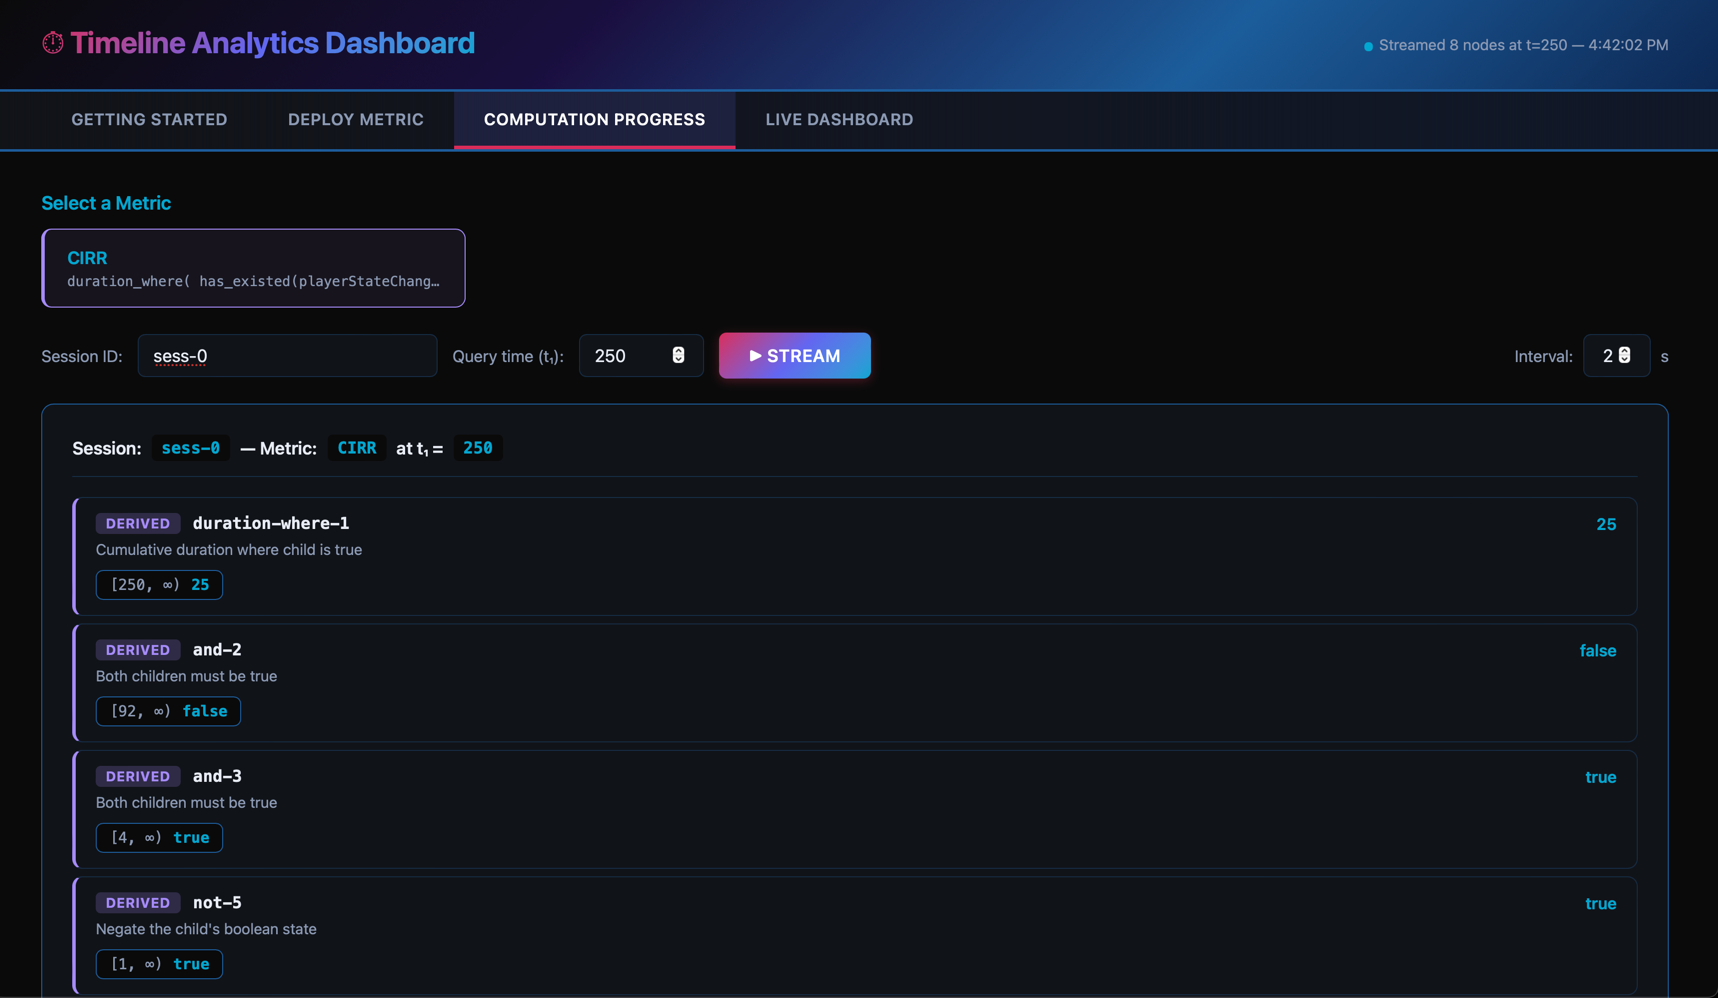
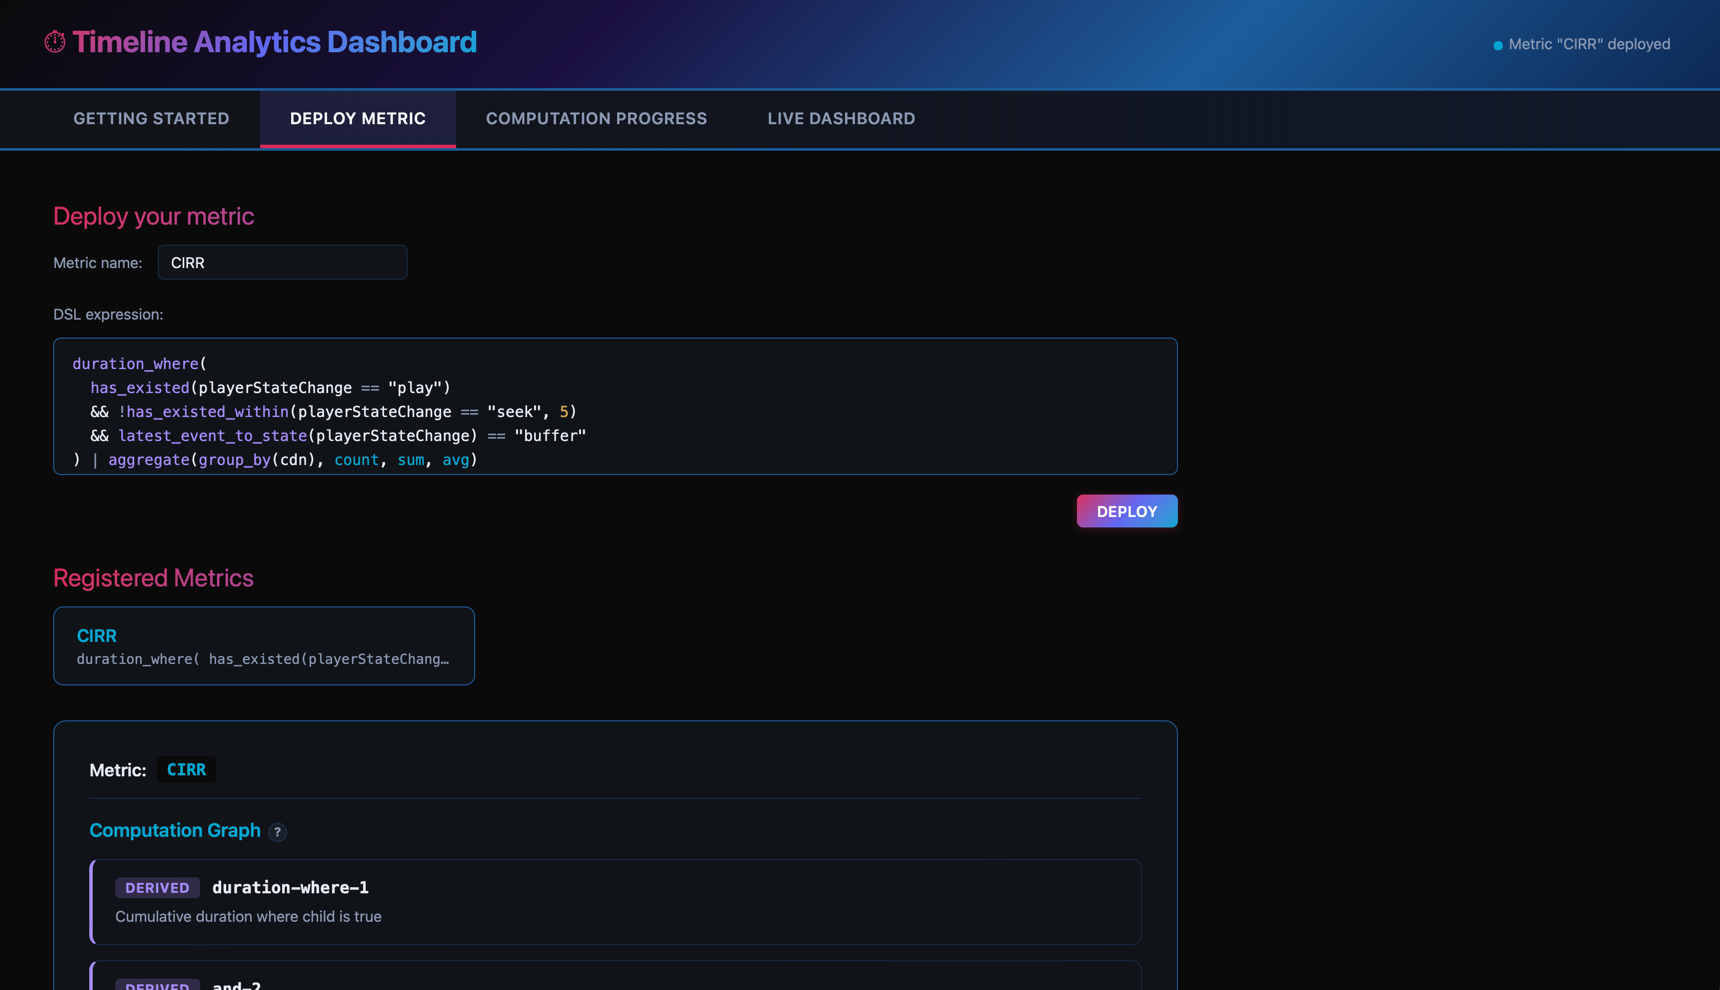
change UI

diff --git a/services/dashboard/src/dashboard.html b/services/dashboard/src/dashboard.html
@@ -59,18 +59,18 @@
     }
     .tab:hover { color: var(--cyan); }
     .tab.active { color: #fff; border-bottom-color: var(--rose); background: rgba(99,102,241,0.15); }
-    .panel { display: none; padding: 32px 40px; }
+    .panel { display: none; padding: 40px 48px; }
     .panel.active { display: block; }
     .guide { max-width: 900px; }
-    .guide h2 { font-size: 20px; margin-bottom: 8px; color: var(--cyan); }
-    .guide .lead { color: var(--text-muted); font-size: 14px; margin-bottom: 24px; line-height: 1.6; }
+    .guide h2 { font-size: 20px; margin-bottom: 12px; color: var(--cyan); }
+    .guide .lead { color: var(--text-muted); font-size: 14px; margin-bottom: 28px; line-height: 1.7; }
     .dsl-block {
       background: var(--surface); border: 1px solid var(--accent-dim); border-radius: 8px;
       padding: 16px 20px; font-family: 'SF Mono', 'Fira Code', monospace; font-size: 13px;
-      line-height: 1.7; color: var(--cyan); margin-bottom: 24px; white-space: pre; overflow-x: auto;
+      line-height: 1.7; color: var(--text); margin-bottom: 32px; white-space: pre; overflow-x: auto;
       border-left: 3px solid var(--siri);
     }
-    .step { display: flex; gap: 16px; margin-bottom: 20px; }
+    .step { display: flex; gap: 16px; margin-bottom: 28px; }
     .step-num {
       flex-shrink: 0; width: 28px; height: 28px;
       background: var(--siri-gradient);
@@ -86,32 +86,32 @@
       font-size: 12.5px; color: var(--green); margin-top: 8px; white-space: pre; overflow-x: auto;
     }
     .controls {
-      display: flex; gap: 12px; align-items: center; flex-wrap: wrap; margin-bottom: 20px;
+      display: flex; gap: 14px; align-items: center; flex-wrap: wrap; margin-bottom: 28px;
     }
-    .controls label { font-size: 13px; color: var(--text-muted); }
+    .controls label { font-size: 12px; color: var(--text-muted); }
     .controls input[type="text"], .controls input[type="number"] {
       background: var(--surface); border: 1px solid var(--border); color: var(--text);
-      padding: 8px 12px; border-radius: 6px; font-size: 14px; outline: none;
+      padding: 6px 10px; border-radius: 5px; font-size: 12px; outline: none;
     }
     .controls input:focus { border-color: var(--cyan); box-shadow: 0 0 0 2px rgba(2,167,209,0.2); }
     .controls button, .btn {
       background: var(--siri-gradient);
       color: #fff; border: none;
-      padding: 10px 24px; border-radius: 6px; font-size: 14px; cursor: pointer;
+      padding: 6px 16px; border-radius: 5px; font-size: 12px; cursor: pointer;
       font-weight: 600; text-transform: uppercase; letter-spacing: 0.3px;
-      transition: opacity .15s; box-shadow: 0 2px 8px rgba(218,44,90,0.3);
+      transition: opacity .15s; box-shadow: 0 1px 6px rgba(218,44,90,0.25);
     }
-    .controls button:hover, .btn:hover { opacity: 0.9; box-shadow: 0 4px 16px rgba(218,44,90,0.4); }
+    .controls button:hover, .btn:hover { opacity: 0.9; box-shadow: 0 2px 10px rgba(218,44,90,0.35); }
     .poll-toggle { margin-left: auto; display: flex; align-items: center; gap: 8px; }
     .poll-toggle label { cursor: pointer; }
     .interval {
       background: var(--surface); border: 1px solid var(--border); color: var(--text);
-      padding: 6px 8px; border-radius: 6px; font-size: 13px; width: 54px; text-align: center; outline: none;
+      padding: 5px 6px; border-radius: 5px; font-size: 12px; width: 48px; text-align: center; outline: none;
     }
-    .presets { display: flex; gap: 8px; margin-bottom: 20px; flex-wrap: wrap; }
+    .presets { display: flex; gap: 10px; margin-bottom: 28px; flex-wrap: wrap; }
     .preset-btn {
       background: var(--surface); border: 1px solid var(--accent-dim); color: var(--text-muted);
-      padding: 8px 16px; border-radius: 6px; font-size: 12px; cursor: pointer;
+      padding: 5px 12px; border-radius: 5px; font-size: 11px; cursor: pointer;
       font-weight: 500; transition: all .15s;
     }
     .preset-btn:hover { color: var(--cyan); border-color: var(--cyan); }
@@ -120,22 +120,22 @@
     .empty-state p { margin-top: 8px; font-size: 14px; }
     .metrics-grid {
       display: grid; grid-template-columns: repeat(auto-fill, minmax(180px, 1fr));
-      gap: 16px; margin-bottom: 24px;
+      gap: 20px; margin-bottom: 28px;
     }
     .metric-card {
-      background: var(--surface); border: 1px solid var(--accent-dim); border-radius: 10px; padding: 20px;
+      background: var(--surface); border: 1px solid var(--accent-dim); border-radius: 8px; padding: 16px;
     }
     .metric-card .label {
-      font-size: 11px; text-transform: uppercase; letter-spacing: 0.8px;
-      color: var(--text-muted); margin-bottom: 8px;
+      font-size: 10px; text-transform: uppercase; letter-spacing: 0.8px;
+      color: var(--text-muted); margin-bottom: 6px;
     }
-    .metric-card .value { font-size: 28px; font-weight: 700; font-variant-numeric: tabular-nums; }
+    .metric-card .value { font-size: 22px; font-weight: 700; font-variant-numeric: tabular-nums; }
     .metric-card .value.count { color: var(--cyan); }
     .metric-card .value.sum   { color: var(--rose); }
     .metric-card .value.avg   { color: var(--siri); }
     .result-section {
       background: var(--surface); border: 1px solid var(--accent-dim);
-      border-radius: 10px; padding: 24px; margin-bottom: 20px;
+      border-radius: 10px; padding: 28px; margin-bottom: 28px;
     }
     .agent-name {
       font-size: 14px; font-weight: 600; margin-bottom: 16px;
@@ -158,7 +158,7 @@
     .history-table td { padding: 6px 12px 6px 0; font-variant-numeric: tabular-nums; }
     .node-card {
       background: var(--surface); border: 1px solid var(--border);
-      border-radius: 8px; padding: 12px 16px; margin-bottom: 6px;
+      border-radius: 8px; padding: 14px 18px; margin-bottom: 12px;
       min-height: 48px; transition: border-color .15s, box-shadow .15s;
     }
     .node-card:hover { border-color: var(--cyan); box-shadow: 0 0 0 1px rgba(2,167,209,0.3); }
@@ -180,17 +180,33 @@
     .node-result.pending { color: var(--text-muted); }
     .node-result.ok { color: var(--green); }
     .node-result.err { color: var(--red); }
-    .node-desc { font-size: 12px; color: var(--text-muted); line-height: 1.4; margin-top: 4px; }
+    .node-desc { font-size: 12px; color: var(--text-muted); line-height: 1.4; margin-top: 6px; }
     .node-header { display: flex; align-items: center; gap: 10px; flex-wrap: wrap; }
+    .dsl-editor-wrap {
+      position: relative; width: 100%;
+    }
+    .dsl-editor-wrap pre.dsl-highlight {
+      position: absolute; top: 1px; left: 1px; right: 1px; bottom: 1px; margin: 0;
+      padding: 10px 14px; font-family: 'SF Mono', 'Fira Code', monospace;
+      font-size: 12px; line-height: 1.6; white-space: pre-wrap; word-wrap: break-word;
+      pointer-events: none; overflow: auto; color: var(--text); background: transparent;
+      border-radius: 6px;
+    }
     textarea.dsl-editor {
-      width: 100%; min-height: 120px; background: var(--surface);
-      border: 1px solid var(--accent-dim); color: var(--cyan); border-radius: 8px;
-      padding: 12px 16px; font-family: 'SF Mono', 'Fira Code', monospace;
-      font-size: 13px; line-height: 1.6; resize: vertical; outline: none;
+      width: 100%; min-height: 110px; background: var(--surface);
+      border: 1px solid var(--accent-dim); color: transparent; caret-color: var(--text);
+      border-radius: 6px; padding: 10px 14px; font-family: 'SF Mono', 'Fira Code', monospace;
+      font-size: 12px; line-height: 1.6; resize: none; outline: none;
     }
     textarea.dsl-editor:focus { border-color: var(--cyan); box-shadow: 0 0 0 2px rgba(2,167,209,0.2); }
-    .deploy-result { margin-top: 20px; }
-    .metric-list { display: flex; gap: 12px; flex-wrap: wrap; margin-bottom: 20px; }
+    .dsl-kw { color: var(--siri); }
+    .dsl-fn { color: var(--cyan); }
+    .dsl-str { color: var(--rose); }
+    .dsl-num { color: #D4A853; }
+    .dsl-op { color: var(--text-muted); }
+    .dsl-ident { color: var(--text); }
+    .deploy-result { margin-top: 28px; }
+    .metric-list { display: flex; gap: 14px; flex-wrap: wrap; margin-bottom: 28px; }
     .metric-item {
       background: var(--surface); border: 1px solid var(--accent-dim);
       border-radius: 8px; padding: 14px 18px; cursor: pointer; transition: all .15s;
@@ -212,11 +228,28 @@
       padding: 6px 12px 6px 0; font-family: 'SF Mono', 'Fira Code', monospace; font-size: 12px;
     }
     .section-title {
-      font-size: 15px; font-weight: 600; margin-bottom: 12px; margin-top: 20px;
+      font-size: 15px; font-weight: 600; margin-bottom: 14px; margin-top: 28px;
       color: var(--cyan);
     }
+    .section-title.gradient {
+      font-weight: 400; background: var(--siri-gradient);
+      -webkit-background-clip: text; -webkit-text-fill-color: transparent; background-clip: text;
+    }
+    .hint {
+      display: inline-flex; align-items: center; justify-content: center;
+      width: 15px; height: 15px; border-radius: 50%; font-size: 10px; font-weight: 700;
+      background: var(--surface2); color: var(--text-muted); cursor: help;
+      border: 1px solid var(--border); margin-left: 6px; position: relative;
+      vertical-align: middle; line-height: 1;
+    }
+    .hint:hover::after {
+      content: attr(data-tip); position: absolute; left: 24px; top: -4px;
+      background: var(--surface2); border: 1px solid var(--accent-dim); color: var(--text);
+      padding: 8px 12px; border-radius: 6px; font-size: 11px; font-weight: 400;
+      white-space: nowrap; z-index: 10; box-shadow: 0 4px 12px rgba(0,0,0,0.4);
+    }
     .timeline-points {
-      display: flex; flex-wrap: wrap; gap: 6px; margin-top: 8px;
+      display: flex; flex-wrap: wrap; gap: 8px; margin-top: 10px;
     }
     .timeline-point {
       display: inline-flex; align-items: center; gap: 8px;
@@ -250,7 +283,7 @@
     }
     .stop-btn {
       background: var(--surface); border: 1px solid var(--siri-mid); color: var(--siri);
-      padding: 10px 24px; border-radius: 6px; font-size: 14px; cursor: pointer;
+      padding: 6px 16px; border-radius: 5px; font-size: 12px; cursor: pointer;
       font-weight: 600; text-transform: uppercase; letter-spacing: 0.3px;
       transition: all .15s;
     }
@@ -328,22 +361,25 @@
   <!-- ==================== Deploy Metric ==================== -->
   <div id="deploy-panel" class="panel">
     <div class="guide">
-      <h2 class="section-title" style="margin-top:0; color: var(--rose)">Deploy a New Metric</h2>
+      <h2 class="section-title gradient" style="margin-top:0">Deploy your metric</h2>
       <div class="controls" style="flex-direction: column; align-items: stretch; gap: 12px;">
         <div style="display:flex; gap:12px; align-items:center;">
           <label for="metric-name-input">Metric name:</label>
           <input id="metric-name-input" type="text" value="cirr" placeholder="e.g. cirr" style="width:200px" />
         </div>
-        <label>DSL expression:</label>
-        <textarea id="dsl-input" class="dsl-editor">duration_where(
+        <label style="margin-top:8px">DSL expression:</label>
+        <div class="dsl-editor-wrap">
+          <pre class="dsl-highlight" id="dsl-highlight" aria-hidden="true"></pre>
+          <textarea id="dsl-input" class="dsl-editor">duration_where(
   has_existed(playerStateChange == "play")
   && !has_existed_within(playerStateChange == "seek", 5)
   && latest_event_to_state(playerStateChange) == "buffer"
 ) | aggregate(group_by(cdn), count, sum, avg)</textarea>
-        <div><button class="btn" id="deploy-btn">Deploy Metric</button></div>
+        </div>
+        <div style="text-align:right"><button class="btn" id="deploy-btn">Deploy</button></div>
       </div>
 
-      <h2 class="section-title">Registered Metrics</h2>
+      <h2 class="section-title gradient">Registered Metrics</h2>
       <div id="registered-metrics">
         <div class="empty-state" style="padding:16px"><p>No metrics registered yet.</p></div>
       </div>
@@ -354,7 +390,7 @@
 
   <!-- ==================== Computation Progress ==================== -->
   <div id="inspect-panel" class="panel">
-    <h2 class="section-title" style="margin-top:0">Select a Metric</h2>
+    <h2 class="section-title gradient" style="margin-top:0">Select a metric</h2>
     <div id="inspect-metric-list" class="metric-list">
       <div class="empty-state" style="padding:20px"><p>No metrics registered. Deploy one first.</p></div>
     </div>
@@ -428,6 +464,35 @@
       d.textContent = s;
       return d.innerHTML;
     }
+
+    function highlightDsl(text) {
+      return escHtml(text)
+        .replace(/\b(duration_where|has_existed|has_existed_within|latest_event_to_state|aggregate|group_by)\b/g,
+          '<span class="dsl-kw">$1</span>')
+        .replace(/\b(count|sum|avg|min|max)\b/g, '<span class="dsl-fn">$1</span>')
+        .replace(/&quot;([^&]*)&quot;/g, '<span class="dsl-str">"$1"</span>')
+        .replace(/\b(\d+)\b/g, '<span class="dsl-num">$1</span>')
+        .replace(/(&&|!=|==|\|\||!)/g, '<span class="dsl-op">$1</span>')
+        .replace(/(\|)(?!\|)/g, '<span class="dsl-op">$1</span>');
+    }
+
+    // Highlight static DSL block
+    document.querySelectorAll('.dsl-block').forEach(el => {
+      el.innerHTML = highlightDsl(el.textContent);
+    });
+
+    // Highlight DSL editor
+    const dslHighlight = document.getElementById('dsl-highlight');
+    const dslTextarea = document.getElementById('dsl-input');
+    function syncHighlight() {
+      dslHighlight.innerHTML = highlightDsl(dslTextarea.value) + '\n';
+    }
+    dslTextarea.addEventListener('input', syncHighlight);
+    dslTextarea.addEventListener('scroll', () => {
+      dslHighlight.scrollTop = dslTextarea.scrollTop;
+      dslHighlight.scrollLeft = dslTextarea.scrollLeft;
+    });
+    syncHighlight();
 
     function fmt(n) {
       if (n == null) return '—';
@@ -522,9 +587,8 @@
       html += '<div class="agent-name">Metric: <code>' + escHtml(metric.name) + '</code></div>';
 
       // Agent tree
-      html += '<div class="section-title" style="margin-top:0">Agent Tree</div>';
-      html += '<p style="font-size:12px;color:var(--text-muted);margin-bottom:12px;">' +
-        'Agent names are: <code>{session-id}-{metric-name}-{suffix}</code></p>';
+      html += '<div class="section-title" style="margin-top:0">Computation Graph' +
+        '<span class="hint" data-tip="Each node is a durable Golem agent. Named {session-id}-{suffix}.">?</span></div>';
 
       for (const d of metric.derived_nodes) {
         html += '<div class="node-card derived"><div class="node-header">' +
@@ -541,10 +605,9 @@
       }
 
       // Routing table
-      html += '<div class="section-title">Leaf Routing Table</div>' +
-        '<p style="font-size:12px;color:var(--text-muted);margin-bottom:8px;">' +
-        'Feeders use this to route events to the correct leaf agents.</p>';
-      html += '<table class="routing-table"><thead><tr><th>Event Column</th><th>Agent Suffixes</th></tr></thead><tbody>';
+      html += '<div class="section-title">Event Routing' +
+        '<span class="hint" data-tip="Maps event columns to the leaf agents that consume them.">?</span></div>';
+      html += '<table class="routing-table"><thead><tr><th>Event Column</th><th>Receivers</th></tr></thead><tbody>';
       for (const [col, suffixes] of Object.entries(metric.routing_table.routes)) {
         html += '<tr><td>' + escHtml(col) + '</td><td>' +
           suffixes.map(s => escHtml(s)).join(', ') + '</td></tr>';
@@ -553,8 +616,9 @@
 
       // Aggregation
       if (metric.aggregation) {
-        html += '<div class="section-title">Aggregation</div>' +
-          '<p style="font-size:13px;color:var(--text-muted);">Group by: <code>' +
+        html += '<div class="section-title">Aggregation' +
+          '<span class="hint" data-tip="Cross-session rollup. Results grouped by the specified column.">?</span></div>' +
+          '<p style="font-size:12px;color:var(--text-muted);">Group by: <code>' +
           escHtml(metric.aggregation.group_by_column) + '</code> — Functions: ' +
           metric.aggregation.functions.join(', ') + '</p>';
       }

diff --git a/README.md b/README.md
@@ -15,14 +15,21 @@ Watch the talk from Afsal at [LambdaConf:2024:Estes-Park:Colorado](https://www.y
 
 ![img_1.png](images/img_1.png)
 
-## Sub computation result streaming
+### After deploy
 
 ![img_2.png](images/img_2.png)
+
+## Sub computation result streaming
+
+![img.png](images/stream.png)
+
+
+![img_3.png](images/img_3.png)
 
 
 ## Aggregation Results
 
-![img_3.png](images/img_3.png)
+![img_4.png](images/img_4.png)
 
 
 You will get more idea about the dashboard soon.
